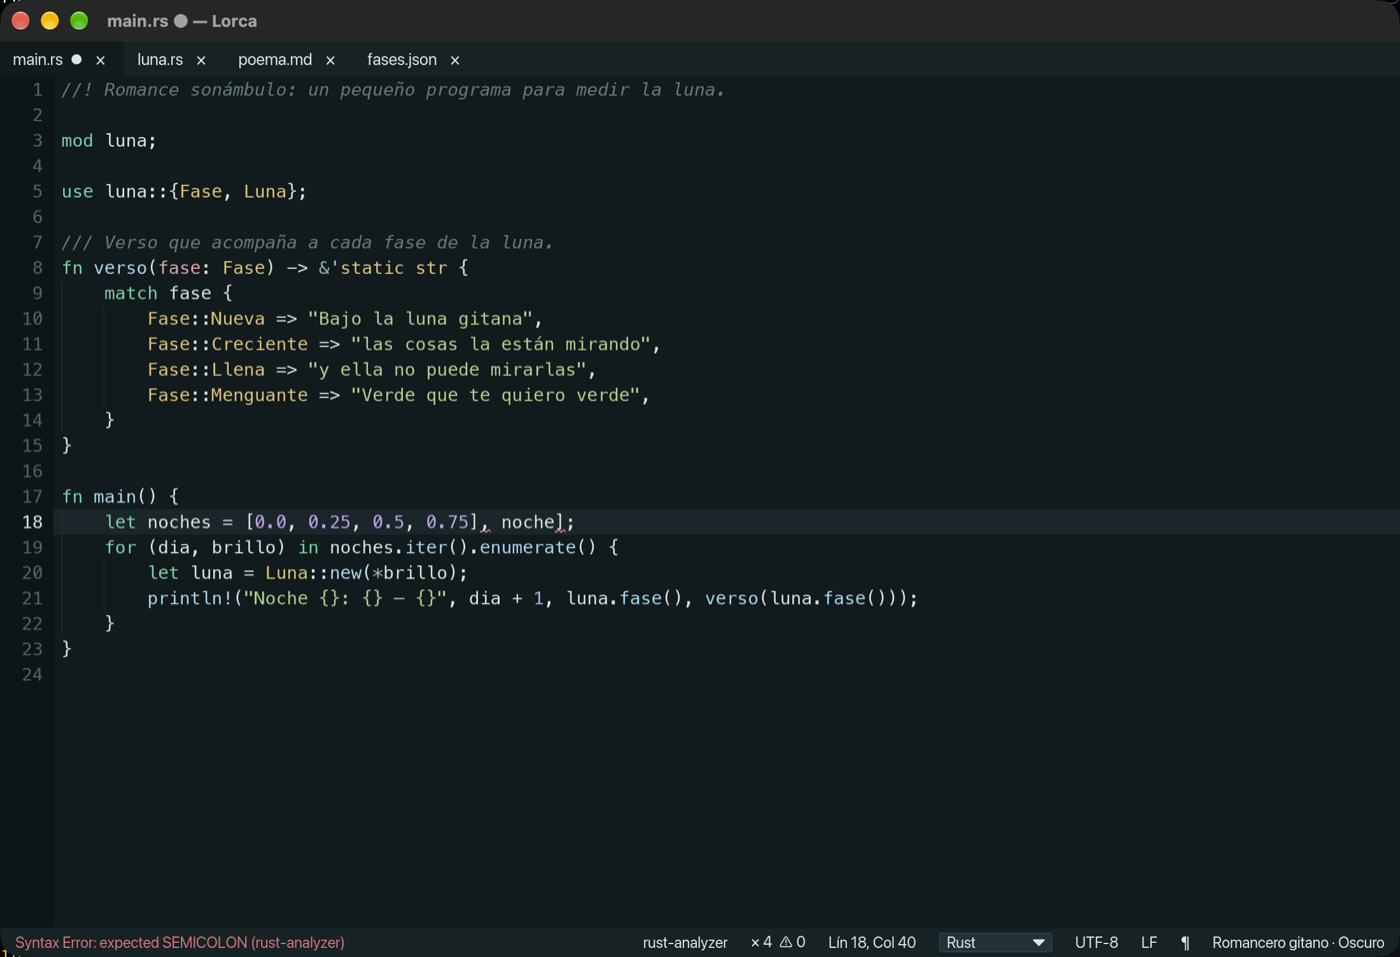
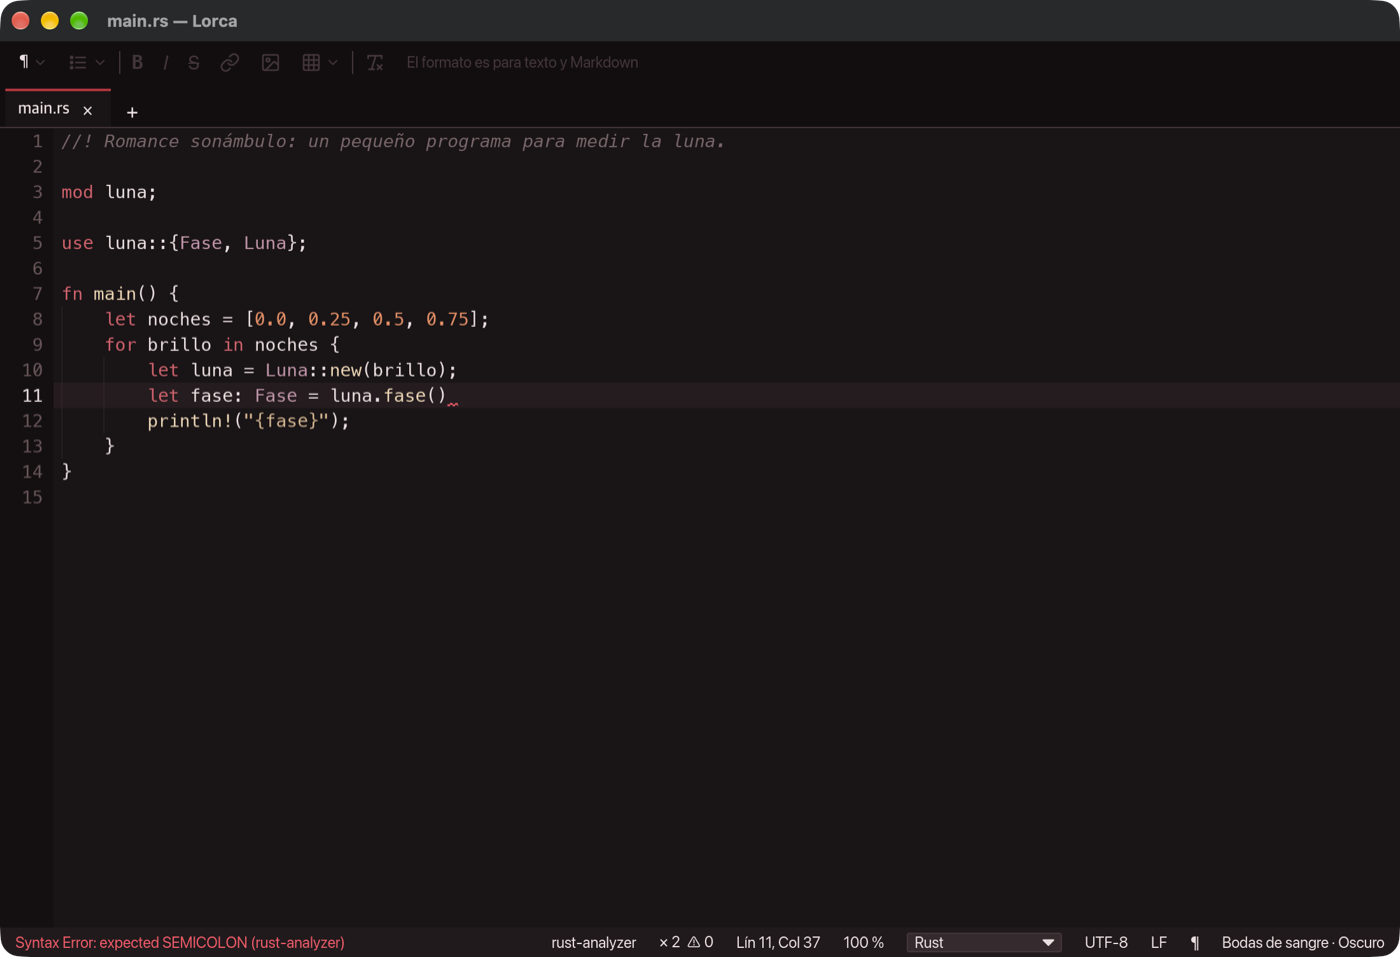
README actualizado: notas con formato, capturas nuevas e instalación
Capturas nuevas con la interfaz actual (barra de formato, pestañas):
texto con formato, pantalla dividida, búsqueda y paleta, además de las
anteriores rehechas. Sección de notas con formato (tareas, imágenes,
bloques de código, pegar desde la web, recuento de palabras), paquetes
por sistema, atajos de formato y opciones nuevas de config.toml.

Claude-Session: https://claude.ai/code/session_018PZb2BHTU4ZvTZA37r97uA

diff --git a/README.md b/README.md
@@ -10,13 +10,39 @@ Lorca es un editor de texto y código de escritorio para macOS, Windows y Linux,
 Rust con [iced](https://iced.rs). El nombre es un homenaje a Federico García Lorca: sus
 temas de color llevan los títulos de sus obras.
 
-Pensado para tomar notas y programar: resaltado de sintaxis, autocompletado y
-diagnósticos con servidores de lenguaje (LSP), búsqueda al estilo Notepad++, multicursor,
-pantalla dividida, vista previa de Markdown y una sesión que nunca pierde lo que escribiste.
+Pensado para tomar notas y para programar. Las notas se escriben **viendo el formato**
+(títulos, listas de tareas, imágenes…) aunque por debajo sean Markdown. El código tiene
+resaltado de sintaxis, autocompletado y diagnósticos con servidores de lenguaje (LSP),
+búsqueda al estilo Notepad++, multicursor y pantalla dividida. Y la sesión nunca pierde
+lo que escribiste.
 
 ![Lorca con el tema Romancero gitano editando un programa en Rust](docs/capturas/principal.png)
 
 ## Funciones
+
+### Notas con formato
+
+Los documentos de **texto con formato** (Markdown, `.md`) se editan como en un procesador
+de textos: las marcas (`**`, `#`, `- [ ]`…) no se ven y el texto se ajusta a la ventana.
+El archivo sigue siendo Markdown, así que se abre igual en cualquier otro programa.
+
+- **Barra de formato** como la del Bloc de notas de Windows 11: títulos, listas (viñetas,
+  numeradas y **de tareas**), negrita, cursiva, tachado, vínculos, imágenes, tablas y
+  borrar formato. Los botones se ven pulsados con el formato del cursor o de la selección.
+- **Listas de tareas** con casillas que se marcan con un clic; Intro continúa la lista.
+- **Imágenes**: se insertan con el botón, pegando o arrastrando archivos, y se ven en el
+  texto. Se mueven arrastrándolas y se cambia su tamaño con el tirador de la esquina. Las
+  grandes se guardan reducidas en una carpeta `<nombre>_imagenes/` junto al documento.
+- **Bloques de código** con el resaltado de su lenguaje.
+- **Pegar desde una web** o un procesador de textos conserva negritas, listas, títulos y
+  vínculos.
+- **Escribir Markdown** en una nota nueva (`# `, `- `, `**texto**`…) la convierte en texto
+  con formato. El **texto plano** se ve tal cual; darle formato lo convierte.
+- **Recuento de palabras** en la barra de estado (y de caracteres en su ayuda).
+- **Exportar a PDF**, con las imágenes, y vista previa de Markdown junto al editor (⇧⌘V).
+- Si prefieres ver las marcas: «Ver → Mostrar marcas de Markdown».
+
+![Una nota con títulos, lista de tareas, lista numerada e imagen, con el tema Mariana Pineda](docs/capturas/texto-con-formato.png)
 
 ### Programar con ayuda del servidor de lenguaje
 
@@ -29,36 +55,33 @@ pyright, typescript-language-server…) ofrece **autocompletado** mientras escri
 
 ![Información de un método mostrada con ⌘I](docs/capturas/informacion.png)
 
-![Error de sintaxis subrayado y su mensaje en la barra de estado](docs/capturas/diagnosticos.png)
+![Error de sintaxis subrayado y su mensaje en la barra de estado, con el tema Bodas de sangre](docs/capturas/diagnosticos.png)
 
 ### Edición
 
-- **Pestañas** con indicador ● de cambios, reordenables arrastrando; selección de varias
-  con ⌘/Ctrl+clic para cerrarlas, guardarlas o verlas juntas. Las que no se han guardado
-  llevan el comienzo de su texto, como en el Bloc de notas.
+- **Pestañas** con indicador ● de cambios, reordenables arrastrando y con botón «+»;
+  selección de varias con ⌘/Ctrl+clic para cerrarlas, guardarlas o verlas juntas. Las que
+  no se han guardado llevan el comienzo de su texto, como en el Bloc de notas.
 - **Pantalla dividida** de 2 a 4 documentos lado a lado (`⌘\`), cada uno con su cursor.
 - **Multicursor**: ⌥+clic, ⌘D para la siguiente aparición, ⌥⌘↑/↓ en columna.
 - **Deshacer por transacciones** (una palabra se deshace de una vez), números de línea,
   guías de indentación, espacios y finales de línea visibles.
+- **Zoom por pestaña** con ⌘+/⌘−, ⌘+rueda o pellizcando el touchpad.
 - **Paleta de órdenes** (⇧⌘P) con búsqueda difusa sobre todas las acciones.
 - **Menú contextual** en el texto y las pestañas; **barra de menús** nativa en macOS y
   dibujada en la ventana en Windows y Linux.
 
-### Lenguajes y formato
+![Pantalla dividida: código en Rust a la izquierda y un poema con formato a la derecha, con el tema Yerma](docs/capturas/dividida.png)
+
+![Paleta de órdenes filtrando los temas](docs/capturas/paleta.png)
+
+### Lenguajes
 
 - **Resaltado** con tree-sitter para Rust, Python, JavaScript, TypeScript/TSX, JSON,
   YAML, TOML, HTML, CSS, Bash, SQL y Markdown (incluidos los bloques de código).
 - **Detección** por extensión, nombre de archivo y shebang (y por el contenido al pegar
   en un documento sin lenguaje); selector manual en la barra de estado.
-- **Formato como en el Bloc de notas de Windows 11**: barra con títulos, listas, negrita,
-  cursiva, tachado, vínculos, tablas y borrar formato (⌘B, ⌘I, ⌘K, ⇧⌘8, ⇧⌘7). Los
-  documentos de **texto con formato** (Markdown, `.md`) se editan **viendo el formato**
-  (títulos grandes, viñetas, negrita…) y se ajustan a la ventana; el **texto plano** se ve
-  tal cual. Dar formato a un texto plano lo convierte en texto con formato.
 - **Formatear** JSON y SQL (⌥⌘L), minificar JSON, MAYÚSCULAS / minúsculas / Tipo Título.
-- **Vista previa de Markdown** en vivo junto al editor (⇧⌘V) y **exportación a PDF**.
-
-![JSON formateado con ⌥⌘L](docs/capturas/formato.png)
 
 ### Búsqueda
 
@@ -68,39 +91,55 @@ pyright, typescript-language-server…) ofrece **autocompletado** mientras escri
   respeta `.gitignore`), con panel de resultados clicables.
 - **Marcar** coincidencias y **marcadores** de línea (⌘F2, F2); **ir a línea** (⌃G).
 
+![Barra de búsqueda con las coincidencias de «luna» resaltadas](docs/capturas/busqueda.png)
+
 ### Archivos y sesión
 
-- Al cerrar y volver a abrir, Lorca restaura **pestañas, cursores y cambios sin
-  guardar**, sin preguntar ni tocar los archivos originales.
+- Al cerrar y volver a abrir, Lorca restaura **pestañas, cursores, pantalla dividida y
+  cambios sin guardar**, sin preguntar ni tocar los archivos originales.
 - Abre y guarda UTF-8 (con o sin BOM), UTF-16 y Windows-1252, y conserva LF o CRLF; ambos
   se cambian desde la barra de estado.
 - **Recarga** los archivos que otro programa cambia (pregunta si tienes cambios).
 - **«Abrir con Lorca»** desde el Finder de macOS y el Explorador de Windows (si Lorca ya
   está abierto, el archivo se abre en una pestaña nueva).
 - **Actualizaciones automáticas**: avisa cuando hay una versión nueva y, con un clic, la
-  descarga, comprueba su firma, la instala y vuelve a abrir Lorca.
+  descarga, comprueba su firma, la instala y vuelve a abrir Lorca. También desde «Ayuda →
+  Buscar actualizaciones…».
 
 ### Temas con nombres de obras de Lorca
 
 Cinco oscuros —*Romancero gitano*, *Yerma*, *Bodas de sangre*, *Poeta en Nueva York* y
-*La bola negra*— y cuatro claros —*Mariana Pineda*, *La casa de Bernarda Alba*, *Doña
-Rosita la soltera* y *La bola negra*—. Además, dos sin ningún color: *Blanco y negro* (claro) y
-*Negro y blanco* (oscuro). Se elige uno claro y otro oscuro, y el modo automático sigue al sistema. Se
-cambian desde la barra de estado o la paleta, y puedes crear los tuyos.
+*La bola negra*— y cinco claros —*Mariana Pineda*, *La casa de Bernarda Alba*, *Doña
+Rosita la soltera*, *La bola negra* y *Blanco y negro*—, más *Negro y blanco* (oscuro).
+Los dos últimos no tienen ningún color. Se elige uno claro y otro oscuro, y el modo
+automático sigue al sistema. Se cambian desde la barra de estado o la paleta, y puedes
+crear los tuyos.
+
+La primera vez, Lorca pregunta cómo quieres verlo y enseña un resumen de lo que puede
+hacer (también en «Ayuda → Lo que puedes hacer con Lorca»).
 
 ![Pantalla de bienvenida: modo automático, claro (Mariana Pineda) u oscuro (Romancero gitano)](docs/capturas/bienvenida.png)
 
 ## Instalación
 
-Cada versión publicada (etiqueta `vX.Y.Z`) deja en
-[releases](https://github.com/gallegomanuel8/Lorca/releases) los paquetes `.dmg` (y un `.zip`
-portable con el `.app`),
-`.msi`/`.exe` y `.deb`/AppImage. El instalador `.exe` de Windows ofrece añadir «Abrir con
-Lorca» al menú contextual de los archivos; si Lorca ya está abierto, el archivo se abre
-en esa ventana. Mientras no haya ninguna, compílalo (abajo). La app
-de macOS va firmada ad hoc, sin certificado de desarrollador: la primera vez que la abras
-macOS dirá que no puede verificar al desarrollador; ve a Ajustes del Sistema → Privacidad y
-seguridad y pulsa «Abrir igualmente».
+Cada versión deja sus paquetes en
+[releases](https://github.com/gallegomanuel8/Lorca/releases):
+
+| Sistema | Archivo |
+|---|---|
+| macOS (Apple Silicon) | `.dmg`, o el `.zip` portable con el `.app` |
+| Windows | instalador `.exe` (en español) o `.msi` |
+| Debian / Ubuntu | `.deb` |
+| Fedora / openSUSE | `.rpm` |
+| Otras distribuciones Linux | AppImage |
+
+- El instalador `.exe` de Windows ofrece añadir «Abrir con Lorca» al menú contextual de
+  los archivos y ofrecer Lorca en «Abrir con» de los archivos de texto.
+- La app de macOS va firmada ad hoc, sin certificado de desarrollador: la primera vez
+  macOS dirá que no puede verificar al desarrollador; ve a Ajustes del Sistema →
+  Privacidad y seguridad y pulsa «Abrir igualmente».
+- Lorca se actualiza solo (en Linux, solo el AppImage; con `.deb` o `.rpm`, instala el
+  paquete nuevo).
 
 Para el autocompletado y los diagnósticos instala el servidor de tu lenguaje, por
 ejemplo `brew install rust-analyzer` o `rustup component add rust-analyzer`.
@@ -130,11 +169,14 @@ ejemplo `brew install rust-analyzer` o `rustup component add rust-analyzer`.
 | Buscar en carpeta | ⇧⌘F | Ctrl+Mayús+F |
 | Añadir cursor · siguiente aparición · en columna | ⌥+clic · ⌘D · ⌥⌘↑/↓ | Alt+clic · Ctrl+D · Ctrl+Alt+↑/↓ |
 | Vista previa de Markdown | ⇧⌘V | Ctrl+Mayús+V |
+| Negrita · cursiva · vínculo (texto con formato) | ⌘B · ⌘I · ⌘K | Ctrl+B · Ctrl+I · Ctrl+K |
+| Lista con viñetas · numerada | ⇧⌘8 · ⇧⌘7 | Ctrl+Mayús+8 · Ctrl+Mayús+7 |
+| minúsculas · MAYÚSCULAS | ⌘U · ⇧⌘U | Ctrl+U · Ctrl+Mayús+U |
 | Formatear JSON/SQL | ⌥⌘L | Ctrl+Alt+L |
 | Tamaño de letra mayor · menor · normal | ⌘+ · ⌘− · ⌘0 | Ctrl++ · Ctrl+− · Ctrl+0 |
 | Ajustes (`config.toml`) | ⌘, | Ctrl+, |
 | Autocompletar | ⌃Espacio | Ctrl+Espacio |
-| Información del símbolo | ⌘I | Ctrl+I |
+| Información del símbolo (código) | ⌘I | Ctrl+I |
 | Ir a la definición | F12 o ⌘+clic | F12 o Ctrl+clic |
 | Siguiente / anterior problema | F8 / ⇧F8 | F8 / Mayús+F8 |
 
@@ -157,6 +199,9 @@ insert_spaces = true           # la tecla Tab inserta espacios (false: un tabula
 show_whitespace = false
 show_line_endings = false
 indent_guides = true
+show_markdown_markers = false  # ver las marcas de Markdown en vez del formato
+wrap_markdown = true           # ajuste de línea al ver las marcas
+check_updates = true           # buscar actualizaciones al arrancar
 
 [lsp]
 enabled = true
@@ -235,7 +280,8 @@ ruta). Por ejemplo, `brew install rust-analyzer` o `rustup component add rust-an
 | Linux | `~/.config/lorca/` |
 
 Contiene `config.toml` (preferencias), `themes/` (temas propios), `session.toml`
-(pestañas) y `backups/` (texto sin guardar). La variable de entorno `LORCA_DATA_DIR` permite usar otra carpeta.
+(pestañas), `backups/` (texto sin guardar) e `imagenes/` (las de las notas que aún no
+se han guardado; al guardar pasan a la carpeta del documento). La variable de entorno `LORCA_DATA_DIR` permite usar otra carpeta.
 
 ## Compilar y ejecutar
 
@@ -261,6 +307,7 @@ cargo packager --release                     # formatos por defecto de la plataf
 cargo packager --release --formats app,dmg   # macOS
 cargo packager --release --formats nsis,wix  # Windows (.exe y .msi)
 cargo packager --release --formats deb,appimage
+cargo build --release && cargo generate-rpm -p crates/app   # .rpm
 ```
 
 Los paquetes quedan en `target/packages/`. La app de macOS se firma ad hoc (la release usa
@@ -270,9 +317,10 @@ ver `CLAUDE.md`). Los iconos están en `assets/icons/`.
 ### Integración continua
 
 `.github/workflows/ci.yml` comprueba formato, clippy y tests en macOS, Windows y Linux en
-cada push. Al publicar una etiqueta (`git tag v0.1.0 && git push --tags`),
-`release.yml` genera los paquetes de los tres sistemas y los adjunta a una release en
-borrador.
+cada push. Al publicar una etiqueta (`git tag v0.2.5 && git push origin v0.2.5`),
+`release.yml` genera y firma los paquetes de los tres sistemas, los adjunta a una release
+en borrador y crea el `latest.json` de las actualizaciones, que se ofrecen cuando la
+release se publica.
 
 ## Arquitectura
 
@@ -283,7 +331,7 @@ Workspace de Cargo:
 | `crates/core` (`lorca-core`) | Buffer (ropey), selección, ediciones, deshacer/rehacer, codificaciones y finales de línea. Sin GUI. |
 | `crates/syntax` (`lorca-syntax`) | Detección de lenguaje y resaltado con tree-sitter. |
 | `crates/search` (`lorca-search`) | Buscar y reemplazar: modos, opciones, navegación y sustitución. |
-| `crates/formats` (`lorca-formats`) | Formateadores JSON/SQL, mayúsculas, Markdown a HTML y a PDF. |
+| `crates/formats` (`lorca-formats`) | Formato de Markdown (negrita, listas, tablas, imágenes), análisis del texto con formato, HTML a Markdown, formateadores JSON/SQL, mayúsculas, exportación a HTML y PDF. |
 | `crates/workspace` (`lorca-workspace`) | Documentos abiertos, pestañas, guardado, sesión, configuración y temas. |
 | `crates/lsp` (`lorca-lsp`) | Cliente del Language Server Protocol. Sin GUI. |
 | `crates/app` (`lorca`) | Binario con la GUI en iced: dibuja y traduce eventos a órdenes. |
@@ -305,6 +353,9 @@ Workspace de Cargo:
    exportar Markdown a PDF.
 6. **Avanzado** ✅: cliente LSP, temas («Yerma», «Bodas de sangre», «Romancero gitano»…),
    configuración en TOML, empaquetado y CI para los tres sistemas.
+7. **Notas** ✅: texto con formato editado viendo el formato, barra de formato, imágenes,
+   listas de tareas, bloques de código, pegar desde la web, recuento de palabras,
+   actualizaciones automáticas y bienvenida con resumen de funciones.
 
 ## Licencia
 
